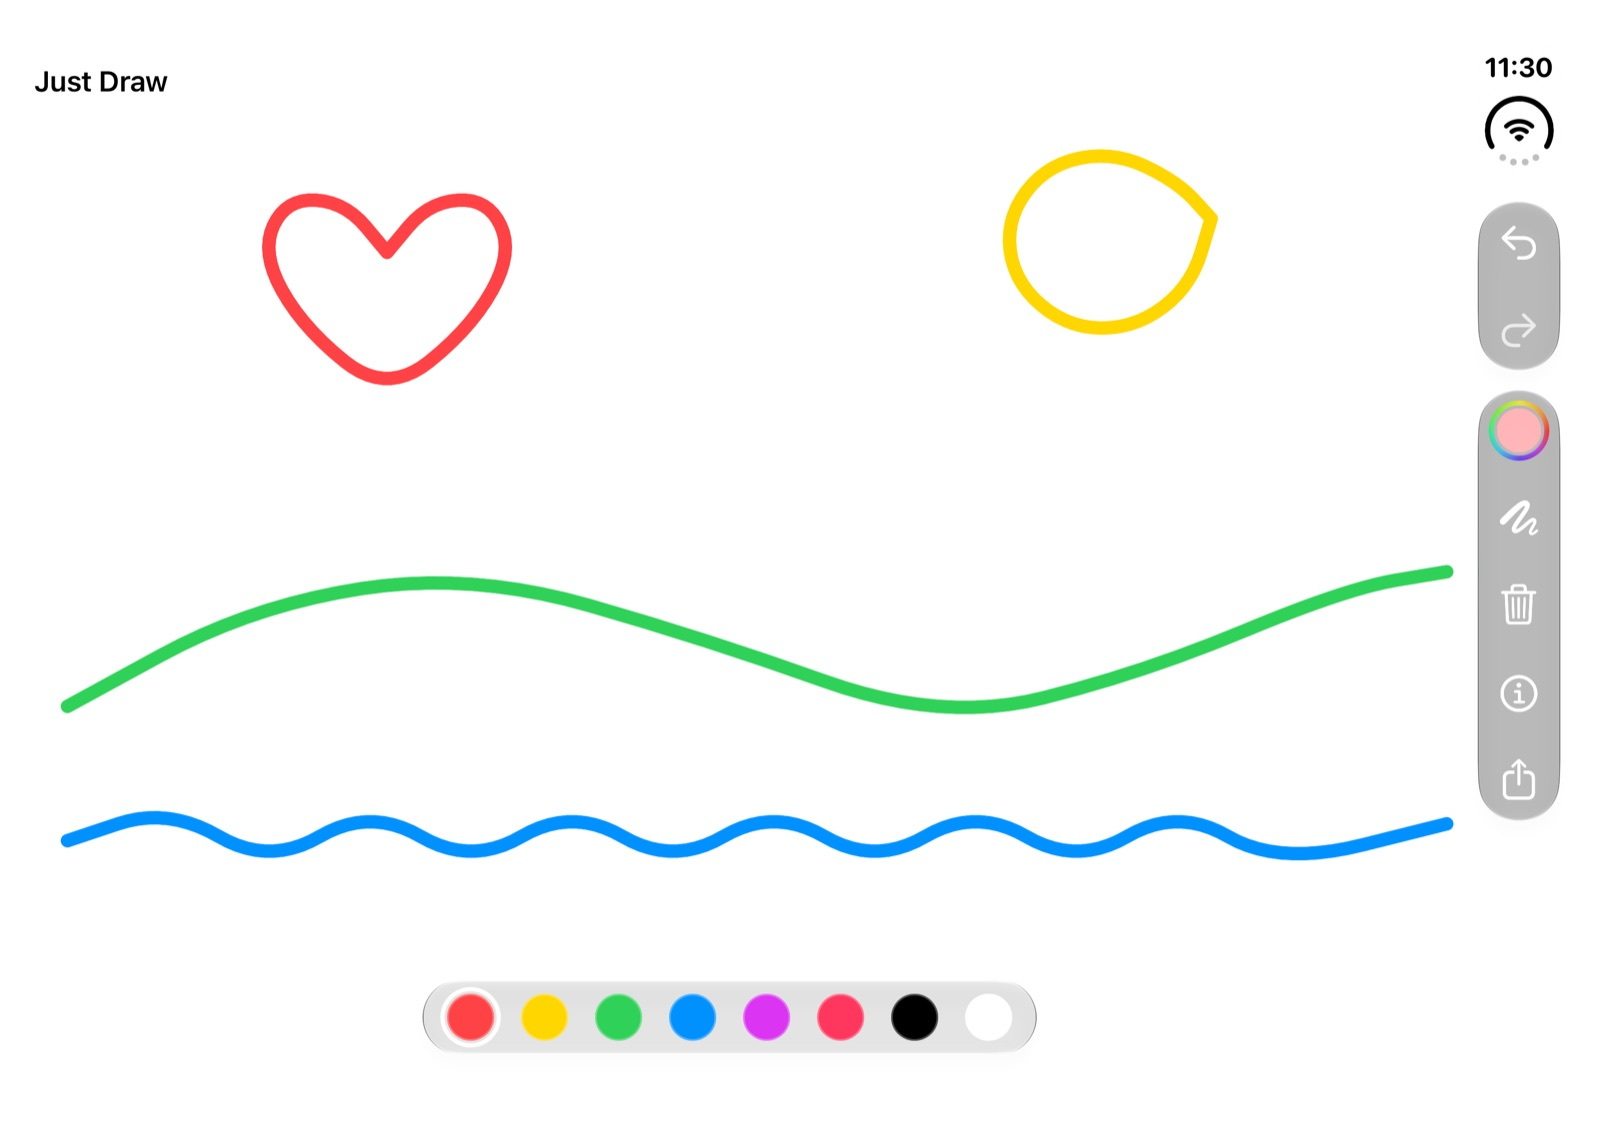
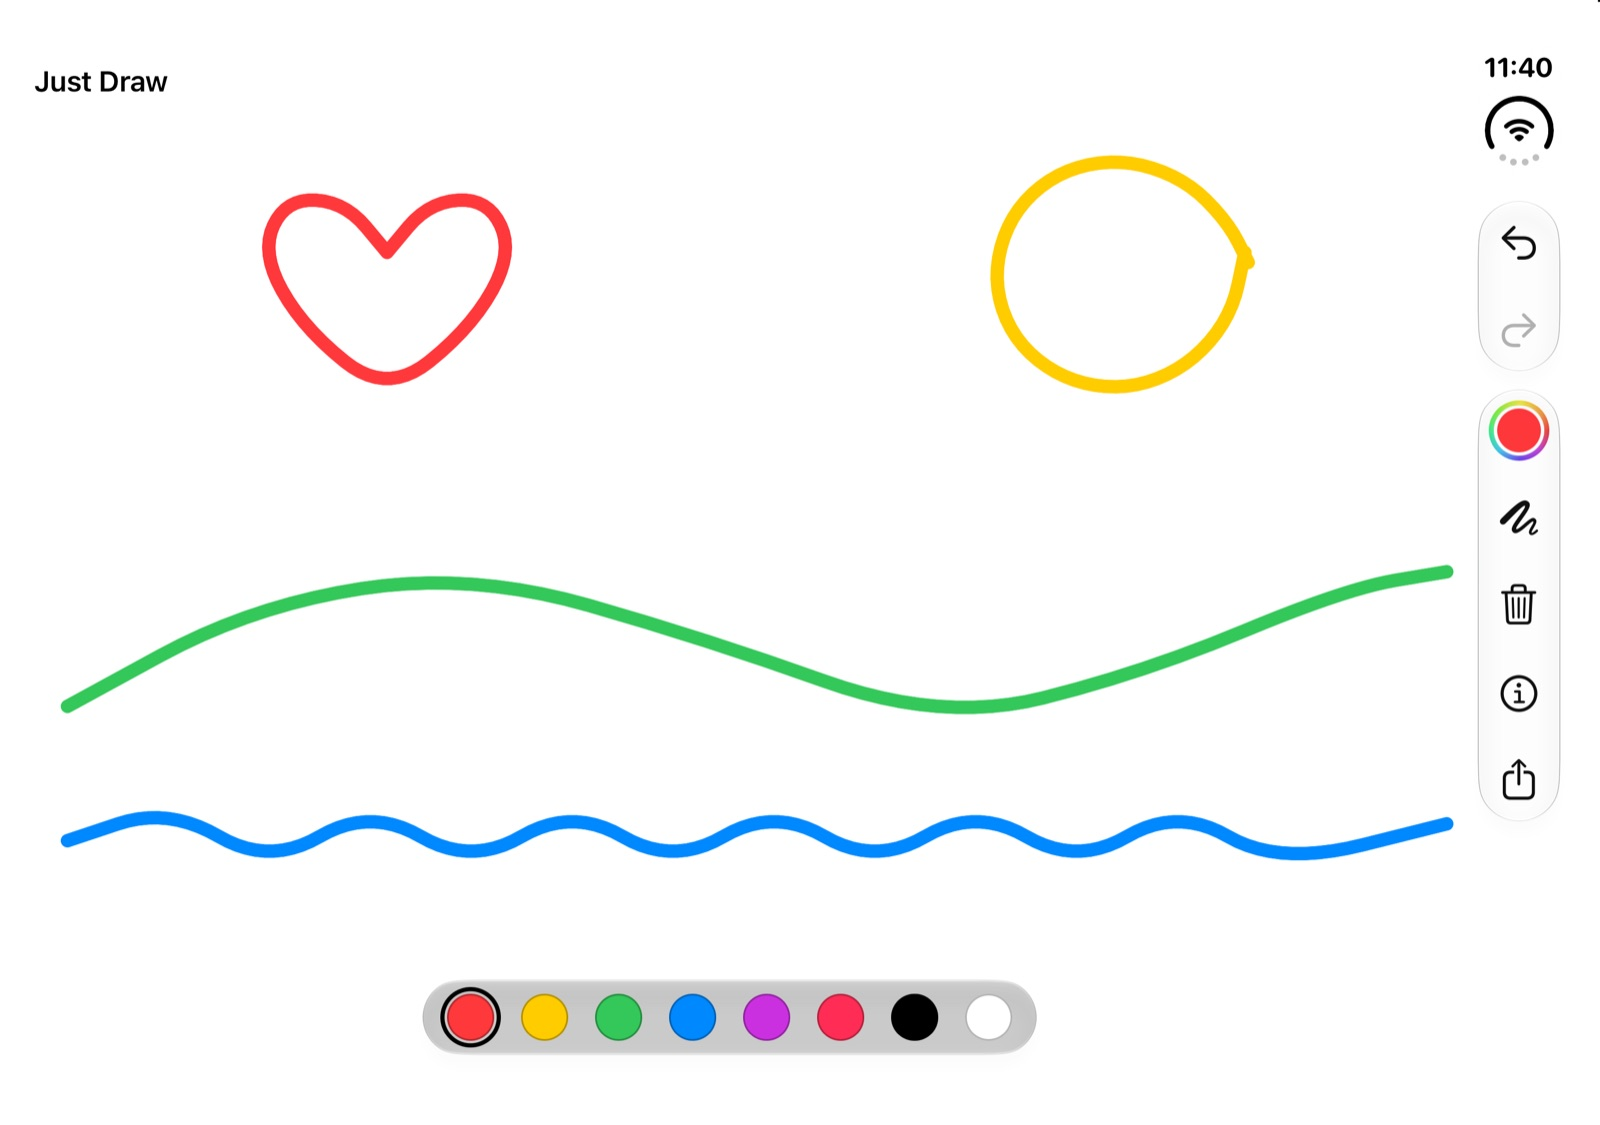
Site: TestFlight link, autosave wording and a Duo screenshot with the new toolbar

Changed region(s): [[0.9062, 0.1556, 1.0, 0.7467], [0.5938, 0.1244, 0.7812, 0.3733], [0.25, 0.8711, 0.6562, 0.9333]]

diff --git a/index.html b/index.html
@@ -28,7 +28,8 @@
     <svg class="mark" viewBox="150 150 760 760" role="img" aria-label="The Just Draw mark: a J and a D written in one line"><path d="M 262 640 C 262 850 492 850 492 650 L 492 270 L 580 270 C 870 270 870 670 580 670 L 492 670"/></svg>
     <h1>Just draw.</h1>
     <p class="lead">A blank page, eight colors and your finger. Undo anything, share what you like. Made for iPhone, iPad and iPhone Duo.</p>
-    <span class="badge">Coming soon &middot; iOS 27 or later</span>
+    <p style="margin:0 0 14px;"><a class="button" href="https://testflight.apple.com/join/3rHHeFmC" rel="noopener">Join the beta on TestFlight</a></p>
+    <span class="badge">In TestFlight beta &middot; iOS 27 or later</span>
     <div class="showcase">
       <figure class="phone" style="margin:0"><img src="assets/screen-iphone.jpg" alt="Just Draw on an iPhone: a red heart, a yellow sun, a green hill and blue waves on white paper, with a color palette at the bottom" width="736" height="1600"></figure>
       <figure class="duo" style="margin:0"><img src="assets/screen-duo.jpg" alt="Just Draw on the inner display of an iPhone Duo, with the toolbar down the right edge" width="1600" height="1125"></figure>
@@ -81,7 +82,8 @@
             <li>Brush sizes from fine to chunky, with a live preview</li>
             <li>Tap for a dot, drag for a line</li>
             <li>Undo and redo without a limit, Clear Canvas included</li>
-            <li>White paper in both light and dark appearance</li>
+            <li>Your last drawing is kept and waiting when you come back</li>
+            <li>White paper, and a light toolbar over it, in both light and dark appearance</li>
           </ul>
         </div>
         <div>
@@ -98,12 +100,13 @@
             <li>iPhone or iPad with iOS 27 or later</li>
             <li>iPhone Duo: the layout adapts to both displays and every fold angle</li>
             <li>English and Swedish</li>
-            <li>Not on the App Store yet</li>
+            <li>Available through <a href="https://testflight.apple.com/join/3rHHeFmC" rel="noopener">TestFlight</a></li>
           </ul>
         </div>
       </div>
       <p style="margin-top:32px;">
-        <a class="button" href="support.html">Get support</a>
+        <a class="button" href="https://testflight.apple.com/join/3rHHeFmC" rel="noopener">Join the beta</a>
+        <a class="button secondary" href="support.html">Get support</a>
         <a class="button secondary" href="privacy.html">Privacy policy</a>
       </p>
     </div>

diff --git a/support.html b/support.html
@@ -22,13 +22,17 @@
     <h1>Support</h1>
     <p class="meta">Help with Just Draw</p>
 
-    <p>Found a bug or have an idea? <a href="https://github.com/iDrewn/justdraw-site/issues">Open an issue on GitHub</a>. Please include your device model, iOS version and what you were doing.</p>
+    <p>Found a bug or have an idea? <a href="https://github.com/iDrewn/justdraw-site/issues">Open an issue on GitHub</a>. If you are a TestFlight tester, you can also send feedback from the TestFlight app. Not testing yet? <a href="https://testflight.apple.com/join/3rHHeFmC" rel="noopener">Join the beta on TestFlight</a>. Please include your device model, iOS version and what you were doing.</p>
 
     <h2>Common questions</h2>
 
     <details>
-      <summary>How do I save my drawing?</summary>
-      <p>Tap the Share button and choose Save Image. Just Draw does not keep drawings inside the app, so save or share a picture before you close it.</p>
+      <summary>Is my drawing saved?</summary>
+      <p>Yes. Just Draw remembers your current drawing and shows it again the next time you open the app. Undo history is not kept, so you cannot undo strokes from an earlier visit. There is one drawing at a time: Clear Canvas starts a new page.</p>
+    </details>
+    <details>
+      <summary>How do I keep a picture of my drawing?</summary>
+      <p>Tap the Share button and choose Save Image to put it in Photos, or send it to a friend. Save a picture before you clear the canvas if you want to keep it.</p>
     </details>
     <details>
       <summary>How do I undo?</summary>

diff --git a/privacy.html b/privacy.html
@@ -25,7 +25,7 @@
     <p><strong>Just Draw does not collect, store or share any personal data.</strong> It has no accounts, no ads, no analytics and no third-party tracking, and it does not send anything about you or your device to the developer or anyone else.</p>
 
     <h2>Your drawings</h2>
-    <p>A drawing exists only in the app while it is open, on your device. Just Draw does not save it to a file, upload it or back it up. When you choose Share, the app makes a picture of the drawing and hands it to the system share sheet, and what happens next depends on the app or action you choose there. If you choose Save Image, the system saves it to your photo library; Just Draw itself never asks for, and cannot read, your photo library.</p>
+    <p>Just Draw remembers your current drawing so it is still there when you come back. It is kept in one file in the app's private storage on your device, and it is never uploaded. Because it is part of the app's data, it can be included in your own device backup, which only you control. Clear Canvas, or deleting the app, removes it. When you choose Share, the app makes a picture of the drawing and hands it to the system share sheet, and what happens next depends on the app or action you choose there. If you choose Save Image, the system saves it to your photo library; Just Draw itself never asks for, and cannot read, your photo library.</p>
 
     <h2>Permissions</h2>
     <p>Just Draw asks for no permissions. It does not use your camera, microphone, location, contacts, photos or files.</p>
